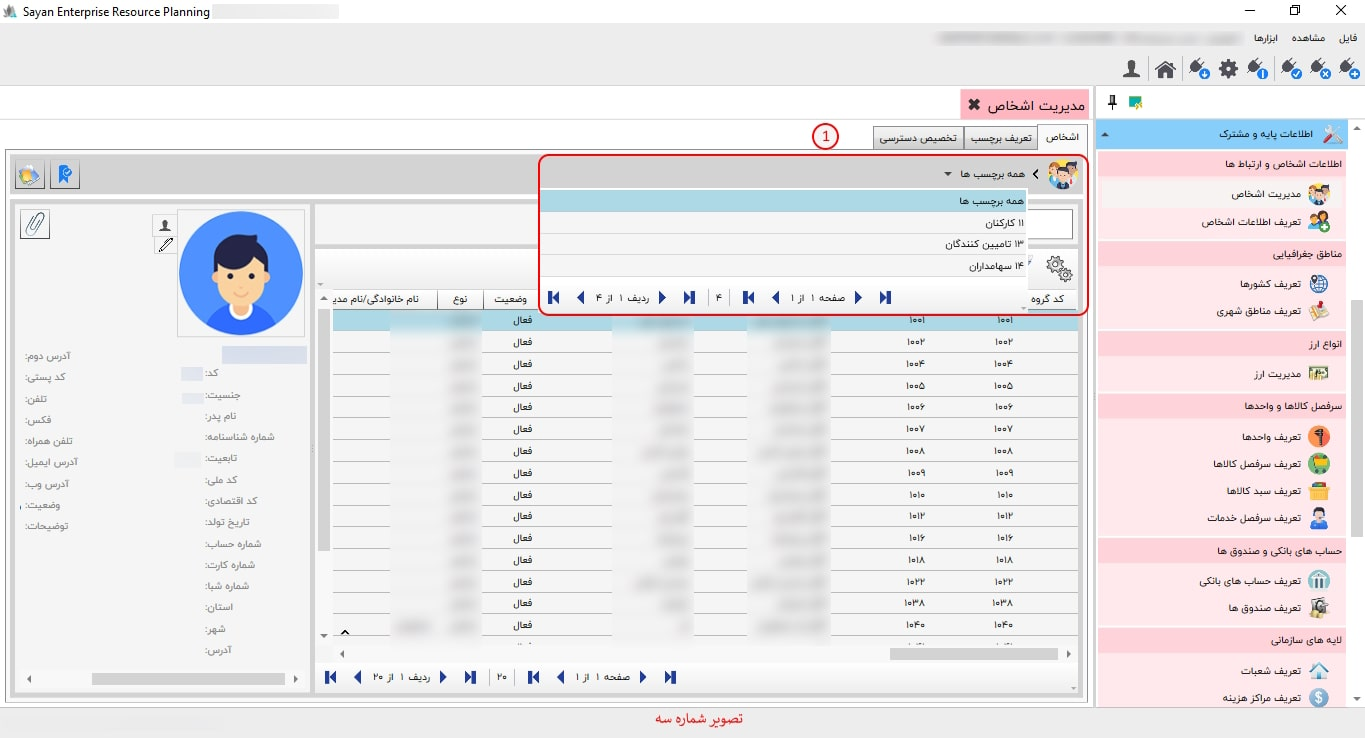
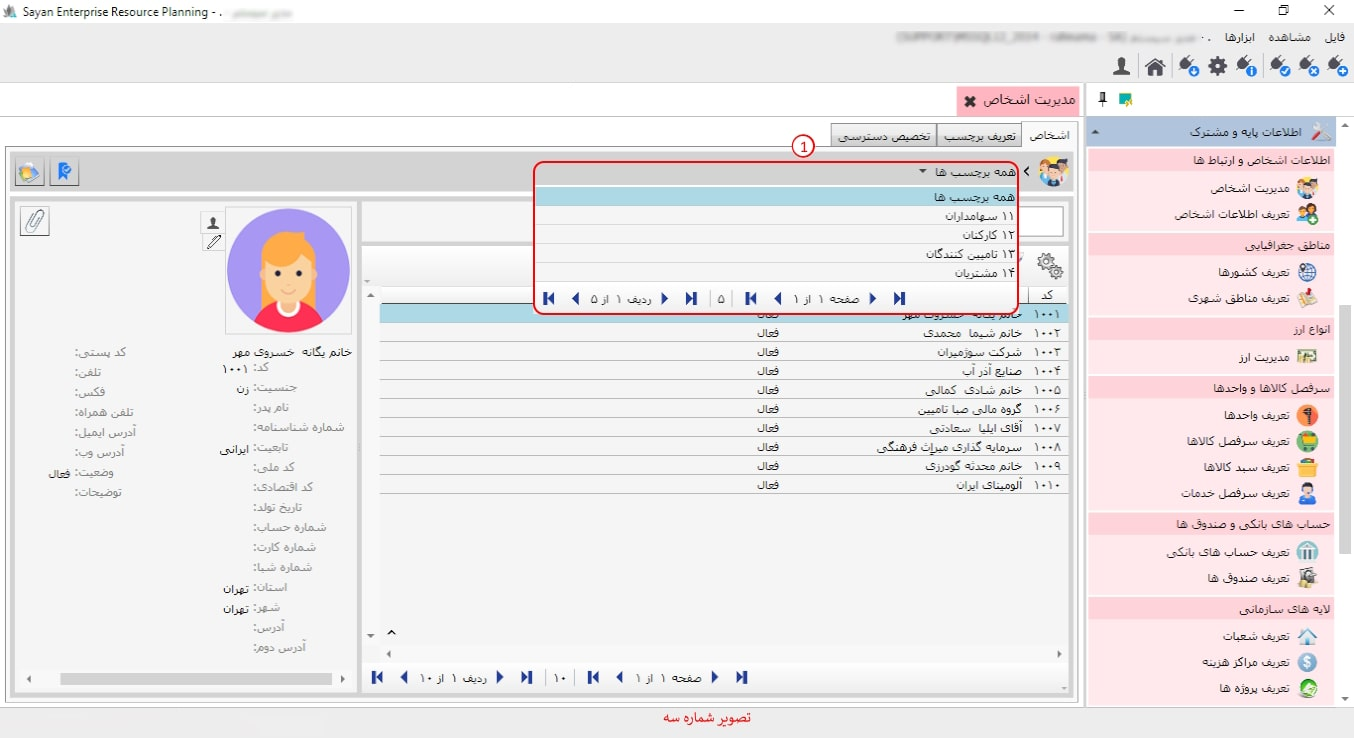
تغییرات

diff --git a/Help/fa-IR/_18_اطلاعات پایه و مشترک/_01_مدیریت اشخاص/Index.html b/Help/fa-IR/_18_اطلاعات پایه و مشترک/_01_مدیریت اشخاص/Index.html
@@ -17,42 +17,48 @@
 	<p>
 		نکته: جهت انتخاب این گزینه، لطفاً به بخش اطلاعات پایه مشترک مراجعه کرده و زیر سیستم مدیریت اشخاص  را انتخاب نمایید.
 	</p>
-	
-	
 	<img class="FitPic" src="l1.jpg"/>
 	<p>
 		زمانی که گزینه مدیریت اشخاص را انتخاب میکنید، تصویر شماره دو نمایان میگردد.
 	</p>	
 	<img class="FitPic" src="l2.jpg"/>
 	<p>
-		-اشخاص (کادر شماره یک): در این قسمت، با توجه به انتخاب برچسبهایتان، اشخاص مرتبط با آن برچسب برایتان نمایان میشود.
+	کادر شماره دو (اشخاص): در سر برگ اشخاص می توانید اطلاعات مربوط به اشخاص را مشاهده و عملیات مرتبط با آن را انجام دهید.
+	</p>        
+	<p>
+	کادر شماره دو(جستجو برچسب ها): در این قسمت شما می توانید برچسب هایی که از قبل تعریف کرده اید را انتخاب نمایید.
 	</p>
 	<p>
-		نکته: اگر تمامی برچسبها را انتخاب نمایید، در این صورت تمامی اشخاصی که تعریف کردهاید برایتان نمایان میشود.
+		نکته: اگر همه برچسب ها را انتخاب نمایید در این صورت تمامی اشخاصی که در برچسب های دیگه تعریف کرده اید برایتان نمایش داده می شود.
 	</p>
 	<p>
-		-همه برچسبها (کادر شماره دو): پس از انتخاب سربرگ اشخاص، ابتدا باید نوع برچسبی که میخواهید مشاهده کنید یا در آن شخصی را ایجاد، ویرایش، حذف و فیلتر نمایید.
+		-کادر شماره سه: برای جستجوی سریع اشخاص، شما میتوانید با تایپ بخشی از کد شخص یا نام خانوادگی، بهصورت لحظهای فهرستی از افراد مرتبط با جستجوی خود را مشاهده کنید. این ویژگی به شما این امکان را میدهد تا بهراحتی و با سرعت، اطلاعات موردنظر را پیدا کنید.
+	
 	</p>
 	<p>
-		-کادر شماره سه: برای جستجوی سریع اشخاص، شما میتوانید با تایپ بخشی از کد شخص یا نام خانوادگی، بهصورت لحظهای فهرستی از افراد مرتبط با جستجوی خود را مشاهده کنید. این ویژگی به شما این امکان را میدهد تا بهراحتی و با سرعت، اطلاعات موردنظر را پیدا کنید و در وقت خود صرفهجویی نمایید.
+		-کادر شماره چهار: در این قسمت، پیشتر (شروع کار با راهنما و ابزارهای عمومی) توضیحات لازم داده شده است. 
 	</p>
 	<p>
-		-کادر شماره چهار: در این بخش، فهرستی از تمامی اشخاص حقیقی و حقوقی که بهطور مشخص تعریف شدهاند، قابل مشاهده است.
+		برای شروع کار با راهنما و ابزارهای عمومی میتوانید مطالب مربوطه را از طریق لینک زیر مشاهده کنید. 
 	</p>
 	<p>
-		-کادر شماره پنج: این قسمت، این امکان را به شما میدهد که اطلاعات شخص مدنظر خود را مشاهده کنید.
+		<a href="..\..\_00_شروع کار با راهنما\_05_ابزار های عمومی نرم افزار\Index.html" target="_blank">  شروع کار با راهنما</a>	
 	</p>
 	<p>
-		-کادر شماره شش: این بخش به شما این امکان را میدهد که برچسب شخص موردنظر خود را انتخاب کنید. 
+		-کادر شماره پنج: در این بخش، فهرستی از تمامی اشخاص حقیقی و حقوقی که بهطور مشخص تعریف شدهاند، قابل مشاهده است.
 	</p>
 	<p>
-		-کادر شماره هفت: این بخش به شما این امکان را میدهد که تمامی اشخاص و گروهها را مشاهده کنید.
+		-کادر شماره شش: در این قسمت شما می توانید اطلاعات مربوط به  اشخاصی که در کادر شماره 4 انتخاب کرده اید را مشاهده کنید.
+
 	</p>
 	<p>
-		<img class="Icon" src="i4.png"/>
+		-کادر شماره هفت (تعیین برچسب): با انتخاب گزینه تعیین برچسب میتوانید برای اشخاص انتخابشده در کادر شماره ۴، برچسبهای موردنظر را اختصاص دهید. 
 	</p>
 	<p>
-		  این آیکون به شما این امکان را میدهد که افراد موردنظر خود را تعریف کنید. قبل از انجام این کار، لطفاً برچسب مناسب را انتخاب کنید تا بتوانید از طریق آیکون مربوطه آنها را تعریف نمایید.
+		-کادر شماره هشت: در این بخش، با توجه به نیازتان میتوانید گروهبندی اشخاص را به سیستم اضافه کنید و همچنین می توانید تمامی اشخاص را حتی اگر شخصی برچسب نداشته باشد مشاهده کنید.
+	</p>
+	<p>
+		پیش از ایجاد گروهبندی اشخاص، لطفاً با واحد پشتیبانی تماس حاصل فرمایید.
 	</p>
 	<p>
 برای ادامه مطلب به تصویر شماره سه مراجعه نمایید.
